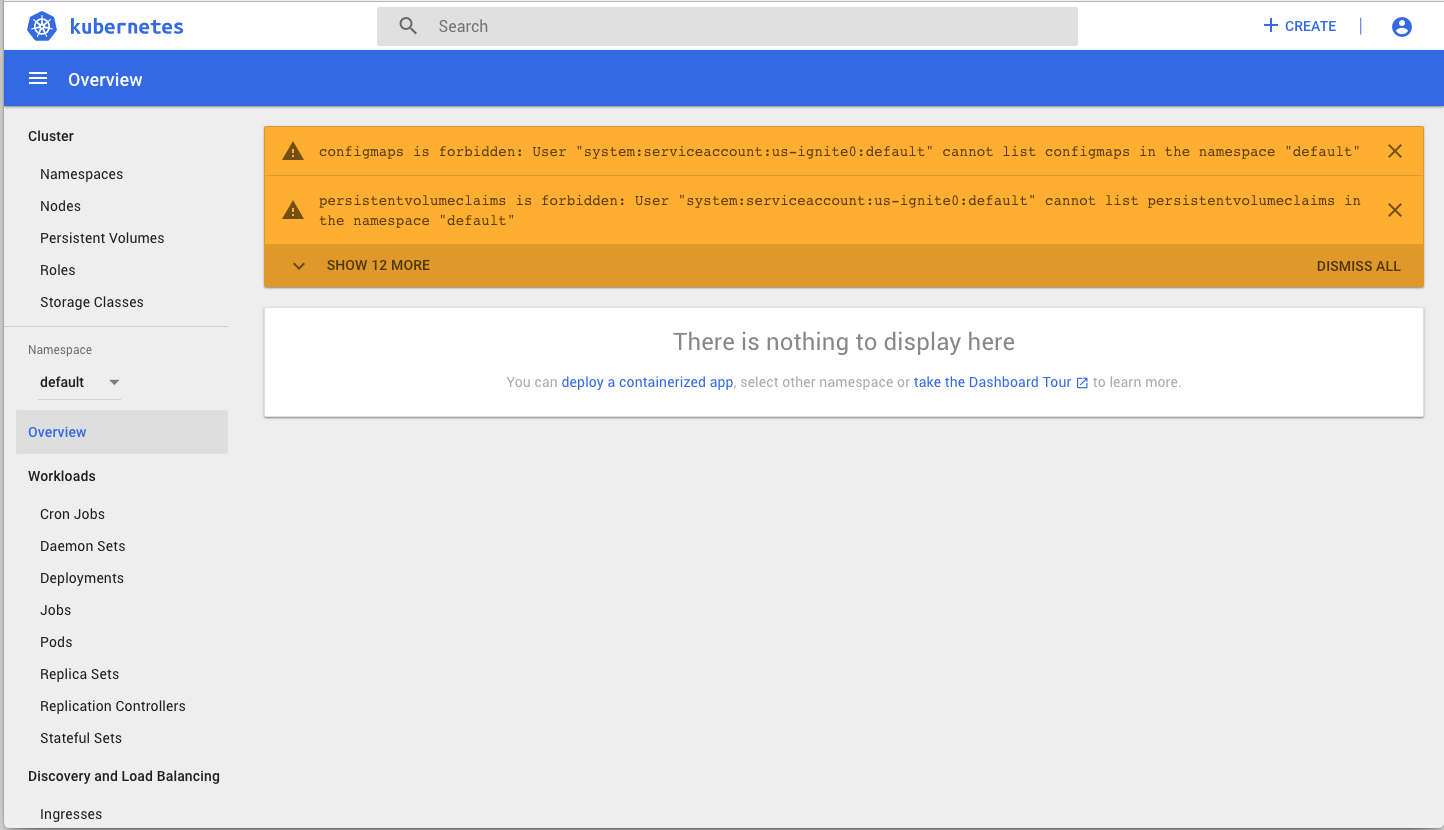
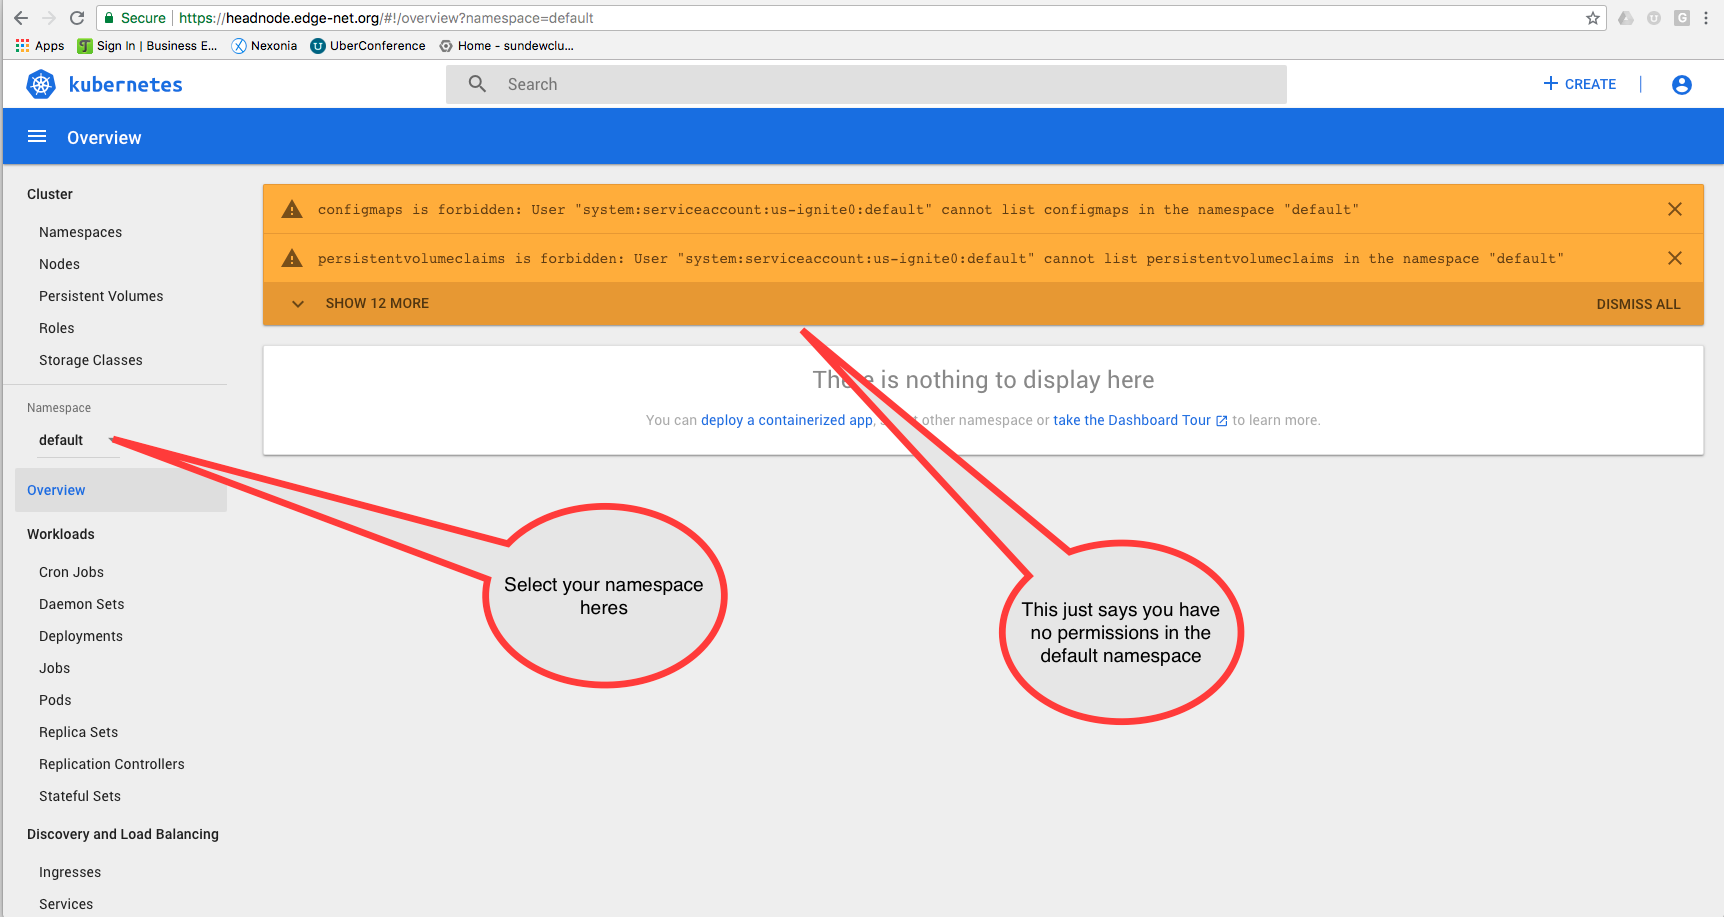
updated to reflect improvements on headnode

diff --git a/using_EdgeNet.md b/using_EdgeNet.md
@@ -181,10 +181,11 @@ Once you've clicked, you will see this screen:
 ![Head Node](assets/images/headNode1.png)
 
 
-Sorry about the error messages in orange.  We are working to get
-rid of them.  You are in the default namespace, where you have no
-permissions.  Click on the namespace name (middle of the left-hand
-side) and type in the namespace name you saw in the welcome page, as in this image:
+The error messages in orange show that you are in the default namespace, where you have
+no permissions.   We apologize; at the moment, the standard Kubernetes Dashboard doesn't permit us to assign your initial
+namespace.  Just ignore these errors; the idea is to get into the right namespace.  
+Click on the namespace pulldown (middle of the left-hand
+side) and select the namespace name you saw in the welcome page, as in this image:
 ![Namespace Entry](assets/images/headNode2.png)
 
 You'll see this
